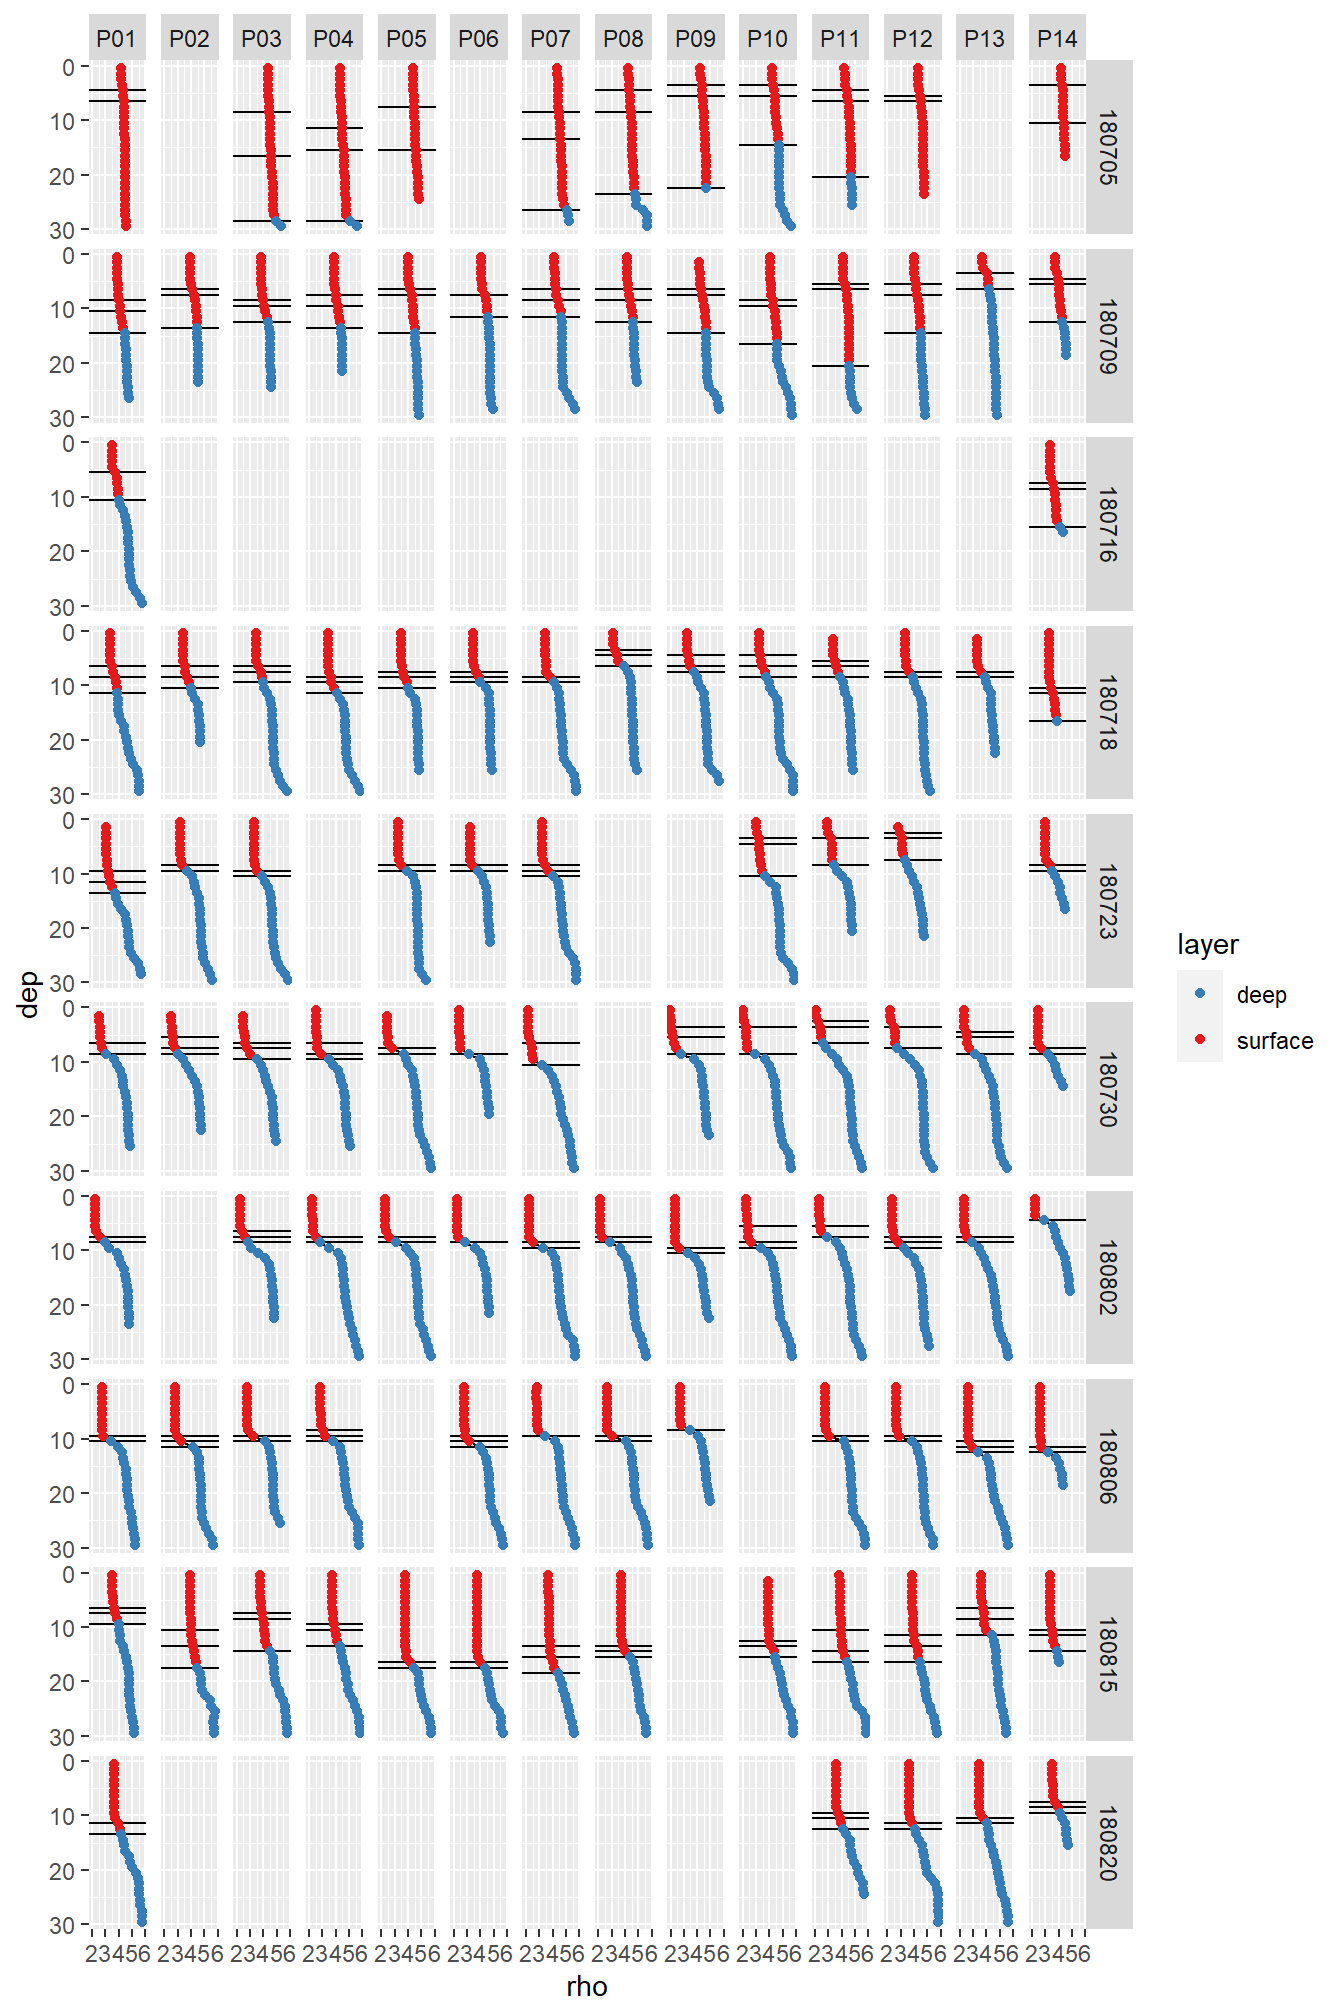
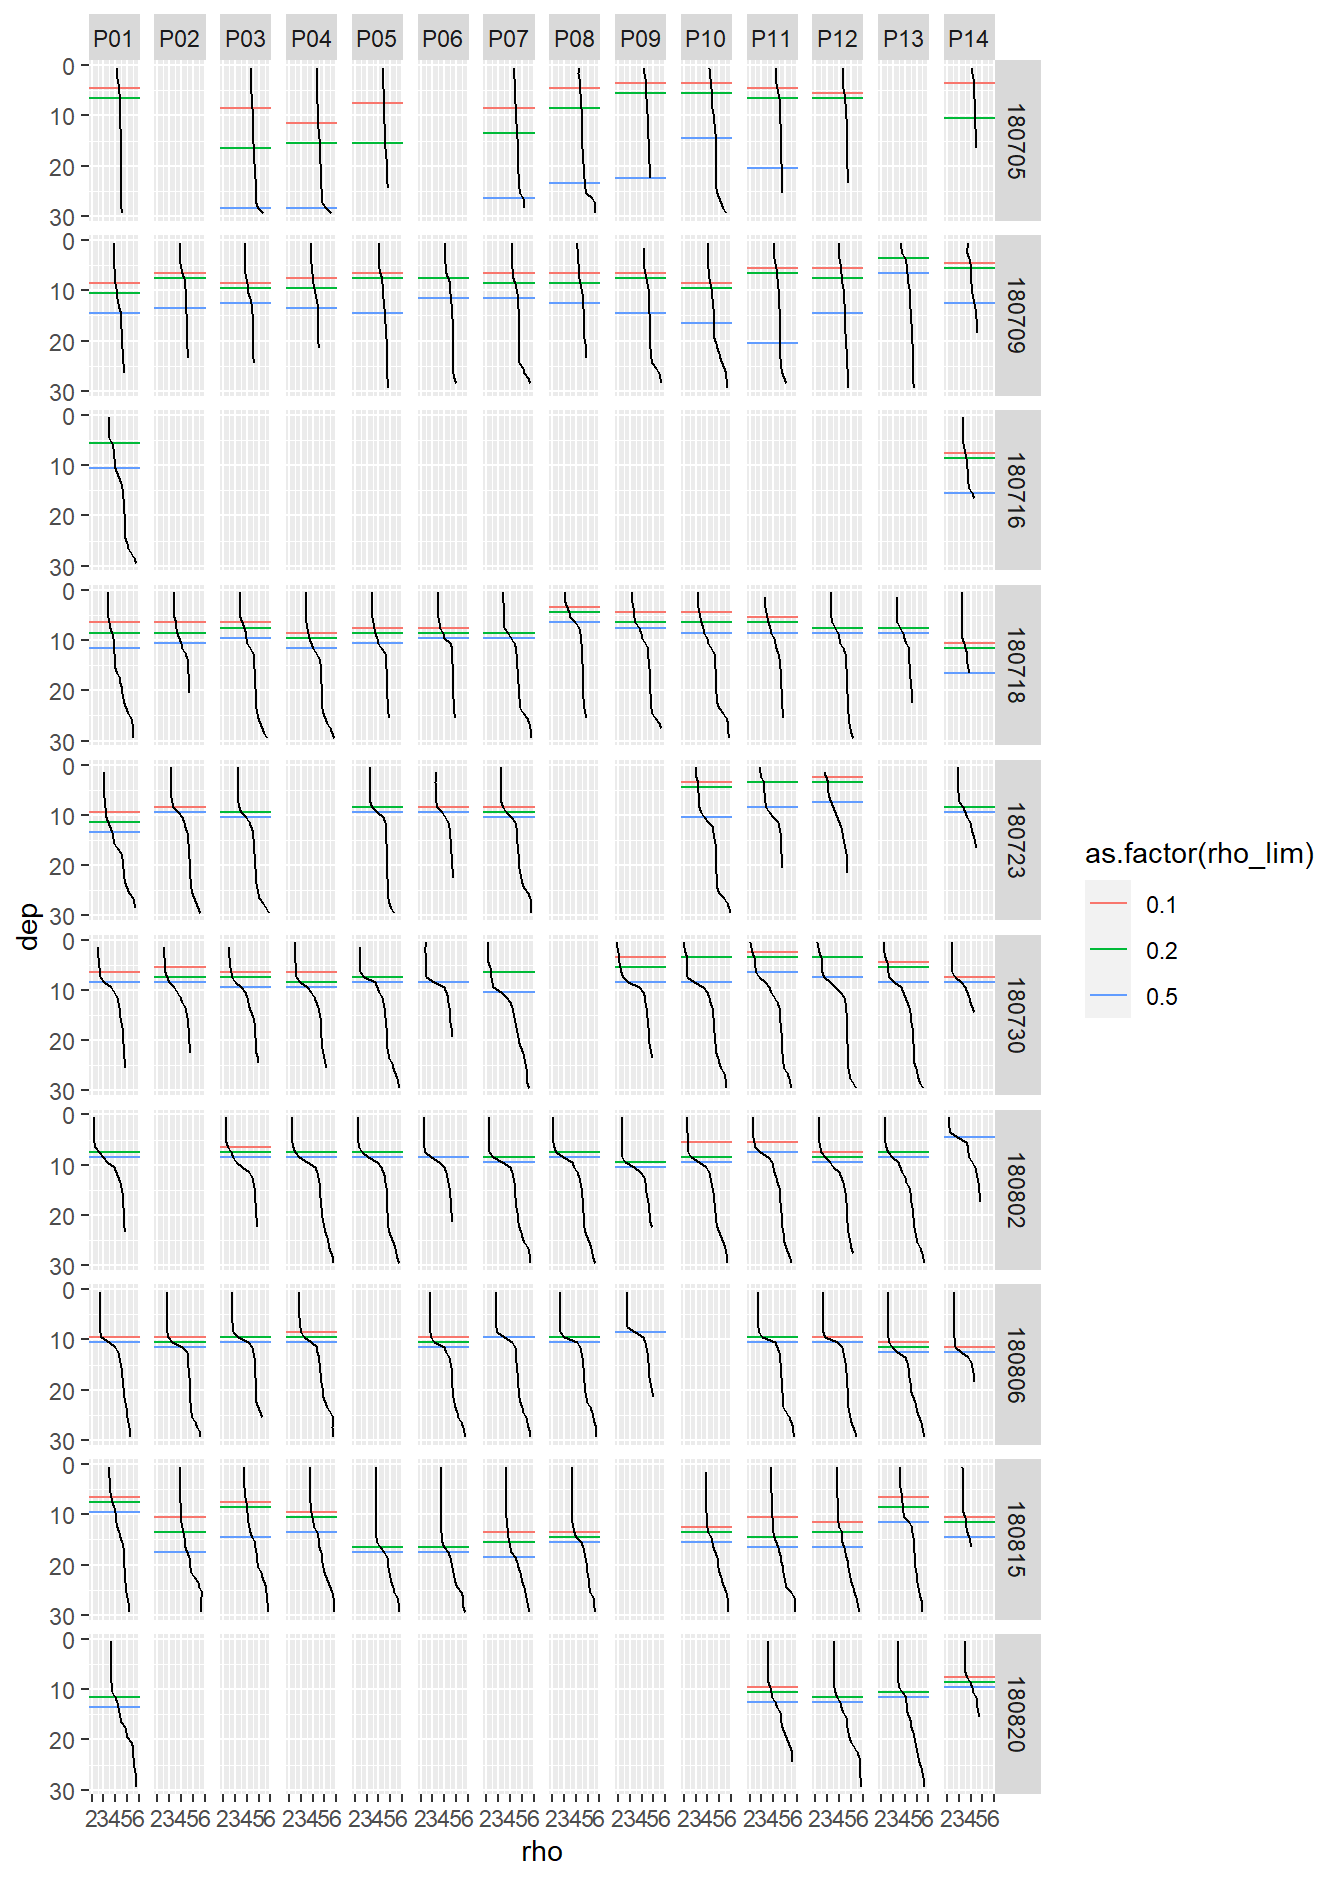
Build site.

diff --git a/docs/MLD.html b/docs/MLD.html
@@ -539,10 +539,10 @@ This reproducible <a href="http://rmarkdown.rstudio.com">R Markdown</a> analysis
 <div class="panel panel-default">
 <div class="panel-heading">
 <p class="panel-title">
-<a data-toggle="collapse" data-parent="#workflowr-checks" href="#strongRepositoryversionstrongahrefhttpsgithubcomjensdanielmuellerBloomSailtree29003edfae71aabe351592aff0417a00e511b2a7targetblank29003eda"> <span class="glyphicon glyphicon-ok text-success" aria-hidden="true"></span> <strong>Repository version:</strong> <a href="https://github.com/jens-daniel-mueller/BloomSail/tree/29003edfae71aabe351592aff0417a00e511b2a7" target="_blank">29003ed</a> </a>
+<a data-toggle="collapse" data-parent="#workflowr-checks" href="#strongRepositoryversionstrongahrefhttpsgithubcomjensdanielmuellerBloomSailtree25013f8f797829fff726f746a0971e8c993aed89targetblank25013f8a"> <span class="glyphicon glyphicon-ok text-success" aria-hidden="true"></span> <strong>Repository version:</strong> <a href="https://github.com/jens-daniel-mueller/BloomSail/tree/25013f8f797829fff726f746a0971e8c993aed89" target="_blank">25013f8</a> </a>
 </p>
 </div>
[2 lines of base64/hex data omitted]
 <div class="panel-body">
 <p>
 Great! You are using Git for version control. Tracking code development and connecting the code version to the results is critical for reproducibility. The version displayed above was the version of the Git repository at the time these results were generated. <br><br> Note that you need to be careful to ensure that all relevant files for the analysis have been committed to Git prior to generating the results (you can use <code>wflow_publish</code> or <code>wflow_git_commit</code>). workflowr only checks the R Markdown file, but you know if there are other scripts or data files that it depends on. Below is the status of the Git repository when the results were generated:
@@ -624,11 +624,10 @@ df &lt;- full_join(df, MLD)</code></pre>
   filter(dep &lt; 30) %&gt;% 
   arrange(dep) %&gt;% 
   ggplot(aes(rho, dep))+
-  geom_hline(aes(yintercept = MLD))+
+  geom_hline(aes(yintercept = MLD, col=as.factor(rho_lim)))+
   geom_path()+
-  geom_point(aes(col=layer))+
   scale_y_reverse()+
-  scale_color_brewer(palette = &quot;Set1&quot;, direction = -1)+
+  #scale_color_brewer(name=&quot;Rho lim&quot;)+
   facet_grid(ID~station)</code></pre>
 <div class="figure" style="text-align: center">
 <img src="figure/MLD.Rmd/plot_density_profiles-1.png" alt="Overview density profiles at stations (P01-P14) and cruise dates (ID). Horizontal lines indicate determined MLD" width="672" />
@@ -652,7 +651,7 @@ MLD_sum %&gt;%
   geom_point(aes(date_time_ID, mean))+
   labs(x=&quot;Mean transect date&quot;, y=&quot;Mixed layer depth [m]&quot;)+
   ylim(0,30)+
-  facet_grid(rho_lim~.)</code></pre>
+  facet_grid(rho_lim~., labeller = label_both)</code></pre>
 <p><img src="figure/MLD.Rmd/plot_MLD_timeseries-1.png" width="672" style="display: block; margin: auto;" /></p>
 <p>Rho, S, and T profiles were plotted individually <a href="https://github.com/jens-daniel-mueller/BloomSail/tree/master/output/Plots/MLD/profiles_MLD_individual.pdf" target="_blank">pdf here</a>.</p>
 <pre class="r"><code>df_long &lt;- df %&gt;% 
@@ -725,7 +724,7 @@ CT &lt;- CT %&gt;%
   mutate(dep_NCP = -(dNCPi/dCT)*1e3)
 
 CT_long &lt;- CT %&gt;% 
-  pivot_longer(3:5, names_to = &quot;parameter&quot;, values_to = &quot;values&quot;)
+  pivot_longer(3:4, names_to = &quot;parameter&quot;, values_to = &quot;values&quot;)
 
 CT_long %&gt;% 
   ggplot(aes(date_time_ID, values))+
@@ -733,6 +732,11 @@ CT_long %&gt;%
   geom_point()+
   facet_grid(parameter~., scales = &quot;free_y&quot;)</code></pre>
 <p><img src="figure/MLD.Rmd/NCP_penetration_depth-1.png" width="672" style="display: block; margin: auto;" /></p>
+<pre class="r"><code>CT %&gt;% 
+  ggplot(aes(date_time_ID, dep_NCP))+
+  geom_path()+
+  geom_point()</code></pre>
+<p><img src="figure/MLD.Rmd/NCP_penetration_depth-2.png" width="672" style="display: block; margin: auto;" /></p>
 <br>
 <p>
 <button type="button" class="btn btn-default btn-workflowr btn-workflowr-sessioninfo" data-toggle="collapse" data-target="#workflowr-sessioninfo" style="display: block;">
@@ -764,21 +768,21 @@ other attached packages:
 [13] tibble_2.1.3    ggplot2_3.3.0   tidyverse_1.3.0
 
 loaded via a namespace (and not attached):
- [1] Rcpp_1.0.2         lubridate_1.7.4    here_0.1           lattice_0.20-35   
- [5] assertthat_0.2.1   zeallot_0.1.0      rprojroot_1.3-2    digest_0.6.22     
- [9] R6_2.4.0           cellranger_1.1.0   backports_1.1.5    reprex_0.3.0      
-[13] evaluate_0.14      highr_0.8          httr_1.4.1         pillar_1.4.2      
-[17] rlang_0.4.5        readxl_1.3.1       rstudioapi_0.10    rmarkdown_2.0     
-[21] labeling_0.3       munsell_0.5.0      broom_0.5.3        compiler_3.5.0    
-[25] httpuv_1.5.2       modelr_0.1.5       xfun_0.10          pkgconfig_2.0.3   
-[29] htmltools_0.4.0    tidyselect_0.2.5   workflowr_1.6.0    crayon_1.3.4      
-[33] dbplyr_1.4.2       withr_2.1.2        later_1.0.0        grid_3.5.0        
-[37] nlme_3.1-137       jsonlite_1.6       gtable_0.3.0       lifecycle_0.1.0   
-[41] DBI_1.0.0          git2r_0.26.1       magrittr_1.5       scales_1.0.0      
-[45] cli_1.1.0          stringi_1.4.3      fs_1.3.1           promises_1.1.0    
-[49] xml2_1.2.2         generics_0.0.2     vctrs_0.2.0        RColorBrewer_1.1-2
-[53] tools_3.5.0        glue_1.3.1         hms_0.5.2          yaml_2.2.0        
-[57] colorspace_1.4-1   rvest_0.3.5        knitr_1.26         haven_2.2.0       </code></pre>
+ [1] Rcpp_1.0.2       lubridate_1.7.4  here_0.1         lattice_0.20-35 
+ [5] assertthat_0.2.1 zeallot_0.1.0    rprojroot_1.3-2  digest_0.6.22   
+ [9] R6_2.4.0         cellranger_1.1.0 backports_1.1.5  reprex_0.3.0    
+[13] evaluate_0.14    httr_1.4.1       highr_0.8        pillar_1.4.2    
+[17] rlang_0.4.5      readxl_1.3.1     rstudioapi_0.10  rmarkdown_2.0   
+[21] labeling_0.3     munsell_0.5.0    broom_0.5.3      compiler_3.5.0  
+[25] httpuv_1.5.2     modelr_0.1.5     xfun_0.10        pkgconfig_2.0.3 
+[29] htmltools_0.4.0  tidyselect_0.2.5 workflowr_1.6.0  crayon_1.3.4    
+[33] dbplyr_1.4.2     withr_2.1.2      later_1.0.0      grid_3.5.0      
+[37] nlme_3.1-137     jsonlite_1.6     gtable_0.3.0     lifecycle_0.1.0 
+[41] DBI_1.0.0        git2r_0.26.1     magrittr_1.5     scales_1.0.0    
+[45] cli_1.1.0        stringi_1.4.3    fs_1.3.1         promises_1.1.0  
+[49] xml2_1.2.2       generics_0.0.2   vctrs_0.2.0      tools_3.5.0     
+[53] glue_1.3.1       hms_0.5.2        yaml_2.2.0       colorspace_1.4-1
+[57] rvest_0.3.5      knitr_1.26       haven_2.2.0     </code></pre>
 </div>
 </div>
 
